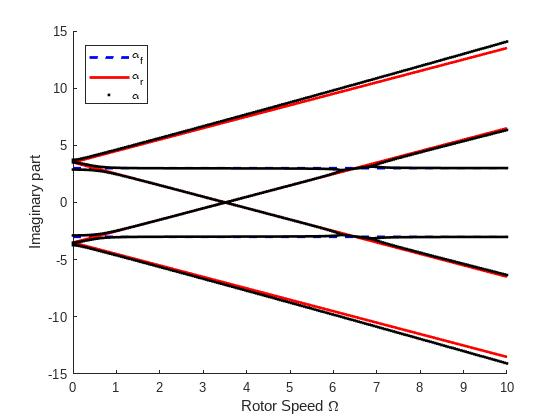
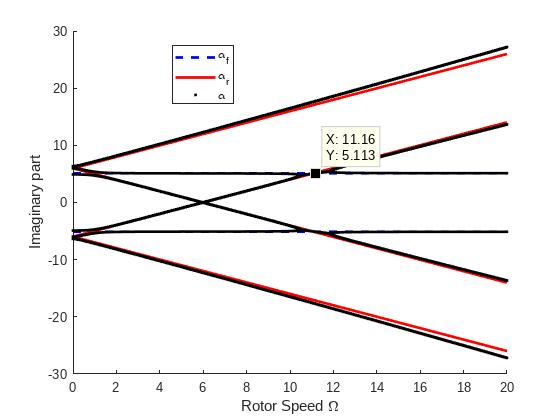
Selasa Submit

diff --git a/bab/4-pengujian-analisis.tex b/bab/4-pengujian-analisis.tex
@@ -5,10 +5,7 @@
 
 Pada penelitian ini dilakukan 3 aspek pengerjaan dalam menjawab tujuannya, diantaranya adalah data eksperimen yang telah didapatkan dari PTDI. Kemudian validasi matematis menggunakan landasan teori yang telah disesuaikan dengan kondisi pengerjaan penelitian ini, yaitu \textit{ground resonance} helikopter. Kemudian yang terakhir adalah simulasi untuk mendukung hasil data pengukuran dan perhitungan. 
 
-\section{Hasil Data Pengukuran dan Perhitungan}
-\label{sec:hasilpengukuran}
-
-\subsection{Hasil pengukuran getaran pada FTIS}
+\section{Hasil pengukuran getaran pada FTIS}
 
 Hasil pengukuran data \textit{ground test} dibagi menjadi 2 bagian, seperti yang telah dijelaskan pada bagian metodologi penelitian, bahwa data yang didapatkan merupakan data pengukuran getaran pada FTIS untuk mencari \textit{damping ratio} dan pengukuran data getaran pada akseleromter untuk mendapatkan respon frekuensi dominan oleh helikopter akibat \textit{input} yang diberikan. Berikut ini merupakan grafik yang didapatkan dari masing-masing kondisi yang mengacu pada tabel \ref{tb:variasilanding}.
 
@@ -208,20 +205,20 @@ Gambar dari \ref{fig:plot_ROR} hingga \ref{fig:plot_Acc_Y} merupakan plot nilai 
 
 Saat pengujian, helikopter memberikan respon getaran yang normal, namun kuantifikasi terhadap kondisi tersebut belum menjelaskan seberapa aman helikopter tersebut dari fenomena \textit{ground resonance}. Perhitungan \textit{damping ratio} setidaknya menjelaskan respon yang dimiliki oleh helikopter terhadap orientasi gerakannya di tanah. Meskipun secara visual, respon helikopter secara jelas tidak menunjukkan adanya potensi terjadinya \textit{ground resonance}. Sehingga identifikasi akan dilanjutkan melalui data hasil pengukuran menggunakan akselerometer.
 
-\subsection{Hasil pengukuran getaran pada Akselerometer}
+\section{Hasil pengukuran getaran pada Akselerometer}
 
 Data yang didapatkan dari hasil sensor akselerometer ditunjukkan pada gambar dibawah ini:
 
-\begin{figure}[H]
+\begin{figure}[h]
 	\centering
-	\fbox{\includegraphics[width=0.8\linewidth]{gambar/raw_config2_ch1.png}}
+	\fbox{\includegraphics[width=0.7\linewidth]{gambar/raw_config2_ch1.png}}
 	\caption{Grafik data pengukuran pada variasi FILO kondisi-2 \textit{channel} 1.}
 	\label{fig:raw_config2_FILO}
 \end{figure}
 
 \begin{figure}[H]
 	\centering
-	\fbox{\includegraphics[width=0.8\linewidth]{gambar/fft_config2_ch1.png}}
+	\fbox{\includegraphics[width=0.7\linewidth]{gambar/fft_config2_ch1.png}}
 	\caption{Grafik data hasil FFT pada variasi FILO kondisi-2.}
 	\label{fig:fft_config2_FILO}
 \end{figure}
@@ -230,7 +227,7 @@ Grafik pada gambar \ref{fig:raw_config2_FILO} merupakan grafik data hasil penguk
 
 \begin{figure}[h]
 	\centering
-	\fbox{\includegraphics[width=0.8\linewidth]{gambar/Oscillation_cycle_limit.jpg}}
+	\fbox{\includegraphics[width=0.55\linewidth]{gambar/Oscillation_cycle_limit.jpg}}
 	\caption{Grafik batas siklus osilasi dari acuan MIL-STD-810H-Method-514.8 (vibrasi).}
 	\label{fig:batas_siklus}
 \end{figure}
@@ -257,16 +254,101 @@ Untuk mendapatkan grafik pada gambar \ref{fig:batas_siklus} diperlukan informasi
 
 \begin{figure}[h]
 	\centering
-	\fbox{\includegraphics[width=0.8\linewidth]{gambar/Helicopter_response_GVT_image/Config_11/5_Config_11_FLLO.jpg}}
+	\fbox{\includegraphics[width=0.55\linewidth]{gambar/Helicopter_response_GVT_image/Config_11/5_Config_11_FLLO.jpg}}
 	\caption{Hasil pengukuran respon frekuensi kondisi-11 pada variasi FLLO pada detik 1800-1850.}
 	\label{fig:11_FLLO}
 \end{figure}
 
-Grafik pada gambar \ref{fig:11_FLLO} merupakan contoh grafik dengan nilai respon terbesar dibandingkan respon-respon dari kondisi dan variasi lainnya, yaitu dengan amplitudo sebesar 0.143 g-peak pada frekuensi 23.74Hz. Nilai respon yang diberikan pada grafik tersebut merupakan nilai yang didapatkan dari \textit{channel} 1 hingga 6. Data respon yang diberi tanda 'x' merupakan nilai tertinggi dari grafik FFT yang telah didapatkan.
+Grafik pada gambar \ref{fig:11_FLLO} merupakan contoh grafik dengan nilai respon terbesar dibandingkan respon-respon dari kondisi dan variasi lainnya, yaitu dengan amplitudo sebesar 0.143 g-peak pada frekuensi 23.74Hz. Nilai respon yang diberikan pada grafik tersebut merupakan nilai yang didapatkan dari \textit{channel} 1 hingga 6. Data respon yang diberi tanda 'x' merupakan nilai tertinggi dari grafik FFT yang telah didapatkan. Selanjutnya akan coba diidentifikasi bagaimana respon helikopter pada masing-masing \textit{channel} dari kondisi 1 hingga 11.
 
-\subsection{Hasil Perhitungan}
+\begin{figure}[h]
+	\centering
+	\fbox{\includegraphics[width=0.55\linewidth]{gambar/Plot_per_channel_FTIS/all_channel_1.jpg}}
+	\caption{Hasil pengukuran respon frekuensi pada \textit{channel} 1 untuk semua kondisi.}
+	\label{fig:channel_1}
+\end{figure}
 
-Berdasarkan matriks yang telah didapatkan pada persamaan \ref{eq:linearisasi} kemudian disubtitusi pada persamaan \ref{eq:EOM} dan diubah menjadi bentuk \textit{state-space} pada persamaan \ref{eq:state-space_simplified}, akan dihitung nilai eigen dari matriks A berikut.
+\begin{figure}[h]
+	\centering
+	\fbox{\includegraphics[width=0.55\linewidth]{gambar/Plot_per_channel_FTIS/all_channel_2.jpg}}
+	\caption{Hasil pengukuran respon frekuensi pada \textit{channel} 2 untuk semua kondisi.}
+	\label{fig:channel_2}
+\end{figure}
+
+\begin{figure}[h]
+	\centering
+	\fbox{\includegraphics[width=0.55\linewidth]{gambar/Plot_per_channel_FTIS/all_channel_3.jpg}}
+	\caption{Hasil pengukuran respon frekuensi pada \textit{channel} 3 untuk semua kondisi.}
+	\label{fig:channel_3}
+\end{figure}
+
+\begin{figure}[H]
+	\centering
+	\fbox{\includegraphics[width=0.55\linewidth]{gambar/Plot_per_channel_FTIS/all_channel_4.jpg}}
+	\caption{Hasil pengukuran respon frekuensi pada \textit{channel} 4 untuk semua kondisi.}
+	\label{fig:channel_4}
+\end{figure}
+
+\begin{figure}[H]
+	\centering
+	\fbox{\includegraphics[width=0.55\linewidth]{gambar/Plot_per_channel_FTIS/all_channel_5.jpg}}
+	\caption{Hasil pengukuran respon frekuensi pada \textit{channel} 5 untuk semua kondisi.}
+	\label{fig:channel_5}
+\end{figure}
+
+\begin{figure}[H]
+	\centering
+	\fbox{\includegraphics[width=0.55\linewidth]{gambar/Plot_per_channel_FTIS/all_channel_6.jpg}}
+	\caption{Hasil pengukuran respon frekuensi pada \textit{channel} 6 untuk semua kondisi.}
+	\label{fig:channel_6}
+\end{figure}
+
+\begin{table}[H]
+	\centering
+	\caption{Kuantifikasi banyaknya respon oleh Helikopter pada batas siklus osilasi.}
+	\label{tb:identifikasi_pada_batas_siklus}
+	\resizebox{\textwidth}{!}{%
+		\begin{tabular}{|c|c|c|c|}
+			\hline
+			Batas siklus & Banyaknya respon (n) & Banyaknya respon (\%) & Total Respon dari (0-80Hz) \\ \hline
+			$f_1$ & 0 & 0 & \multirow{4}{*}{2412} \\ \cline{1-3}
+			$f_2$ & 383 & 15.87893864 &  \\ \cline{1-3}
+			$f_3$ & 103 & 4.270315091 &  \\ \cline{1-3}
+			$f_4$ & 15 & 0.621890547 &  \\ \hline
+		\end{tabular}%
+	}
+\end{table}
+
+Grafik pada gambar \ref{fig:channel_1} hingga \ref{fig:channel_6} memberikan informasi terkait respon helikopter dari \textit{channel} 1 hingga 6 untuk semua kondisi. Respon helikopter bertanda 'x' dan diberi warna hijau. Respon tersebut lebih banyak terdapat pada sekitar batas siklus di $f_1$ dan $f_2$. Akan tetapi bila ditinjau secara matematis, tidak terdapat respon helikopter yang berada pada batas siklus $f_1$ hal ini dibuktikan dengan identifikasi nilai kuantitatif respon pada interval $f_1$ seperti yang terdapat pada tabel \ref{tb:identifikasi_pada_batas_siklus}. Dari tabel tersebut, terdapat sebanyak 15.87$\%$ respon helikopter pada batas siklus $f_2$, 4.27$\%$ pada batas siklus $f_3$ dan 0.621$\%$ pada batas siklus $f_4$. Nilai terdekat pada batas siklus $f_1$ berada pada nilai respon frekuensi 5.9166 dan berada pada g-peak 0.0067. Informasi tersebut didapatkan dari data excel yang berjumlah 4539 respon data oleh helikopter seperti yang dapat dilihat pada potongan tabel \ref{tb:list_all_data_sort}. Data yang ditampilkan dan dimasukkan pada batas siklus osilasi hanya merupakan data yang berada pada interval 0 hingga 80Hz. Meskipun pada dasarnya apabila mengacu pada nilai puncak FFT seperti pada gambar \ref{fig:fft_config2_FILO}, didapatkan nilai puncak tertinggi pada rentang frekuensi 700-800Hz.
+
+Identifikasi pada respon frekuensi yang berada di batas siklus osilasi $f_1$ memiliki korelasi yang sangat berkaitan erat dengan fenomena \textit{ground resonance}. Batas siklus osilasi $f_1$ merupakan batas siklus osilasi paling rendah yang berada pada rentang \textit{low frequency}. Berdasarkan penelitian yang telah dikerjakan oleh \cite{Eckert2007AnalyticalAA}, terdapat satu frekuensi pada \textit{lag mode} berupa \textit{low frequency} (frekuensi rendah) yang dapat menyebabkan terjadinya \textit{ground resonance}. Pada rentang frekuensi rendah ini akan dilakukan identifikasi secara matematis sebagai bentuk validasi dari pengukuran data yang telah dilakukan.
+
+\begin{table}[h]
+	\centering
+	\caption{Tabel respon helikopter pada semua channel dan semua kondisi (potongan).}
+	\label{tb:list_all_data_sort}
+		\begin{tabular}{|c|c|c|c|}
+			\hline
+			No & Frekuensi & g-Peak & Channel \\ \hline
+			1 & 1.930925 & 0.00063 & ch1 \\ \hline
+			2 & 4.869472 & 0.000965 & ch1 \\ \hline
+			3 & 7.466667 & 0.000198 & ch1 \\ \hline
+			4 & 10.461628 & 0.000213 & ch1 \\ \hline
+			5 & 13.358655 & 0.000102 & ch1 \\ \hline
+			... & ... & ... & ... \\ \hline
+			671 & 5.916678 & 0.006792 & ch2 \\ \hline
+			... & ... & ... & ... \\ \hline
+			4535 & 1.7132 & 0.01659 & ch6 \\ \hline
+			4536 & 1.7683 & 0.01962 & ch6 \\ \hline
+			4537 & 1.82582 & 0.02096 & ch6 \\ \hline
+			4538 & 23.7427 & 0.02117 & ch6 \\ \hline
+			4539 & 746.644 & 0.01644 & ch6 \\ \hline
+		\end{tabular}%
+\end{table}
+
+\section{Hasil Perhitungan Matematis}
+
+Perhitungan matematis yang dilakukan berdasarkan pada apa yang telah dikerjakan pada \cite{BERGEOT201672}, frekuensi \textit{ground resonance} akan terjadi pada \textit{regressive rotor mode}, yaitu mode yang terjadi pada bilah rotor. Dalam perhitungan tersebut, digunakan matriks dari persamaan \ref{eq:state-space}. Berdasarkan matriks yang telah didapatkan pada persamaan \ref{eq:linearisasi} kemudian disubtitusi pada persamaan \ref{eq:EOM} dan diubah menjadi bentuk \textit{state-space} pada persamaan \ref{eq:state-space_simplified}, maka akan dihitung nilai eigen dari matriks A berikut.
 
 \begin{equation}
 	\mathbf{A}=\begin{bmatrix}
@@ -275,7 +357,7 @@ Berdasarkan matriks yang telah didapatkan pada persamaan \ref{eq:linearisasi} ke
 	\end{bmatrix}
 \end{equation}
 
-Akan tetapi, informasi material helikopter belum diketahui, sehingga dilakukan pendekatan untuk nilai propertis persamaan diatas, dimana untuk masing-masing propertis adalah sebagai berikut:
+Nilai eigen pada matriks A merupakan solusi yang menampilkan besarnya frekuensi pada \textit{fuselage} dan \textit{rotor}. Informasi material pada helikopter akan disubtitusi pada matriks tersebut. Akan tetapi dalam penelitian ini, didapatkan keterbatasan pada spesifikasi propertis helikopter. Sehingga dilakukan pendekatan untuk nilai propertis persamaan diatas menggunakan data kecepatan bilah rotor helikopter, dimana untuk masing-masing propertis adalah sebagai berikut:
 
 \begin{table}[h]
 	\centering
@@ -294,43 +376,97 @@ Akan tetapi, informasi material helikopter belum diketahui, sehingga dilakukan p
 	\end{tabular}
 \end{table}
 
-Nilai eigen dapat diperhitungkan dari matriks $\mathbf{A}$. Dari hasil tersebut, didapatkan 6 solusi nilai eigen saat kondisi natural, yaitu saat $\tilde{S}_c = \tilde{S}_d = 0$ (tidak saling berhubungan / \textit{uncoupled}). Sehingga dari kondisi tersebut didapatkan grafik bagian imajiner terhadap kecepatan rotor $\Omega$ dan didapatkan pula bagian rill terhadap kecepatan rotor $\Omega$.
+Nilai eigen dapat diperhitungkan dari matriks $\mathbf{A}$. Dari hasil tersebut, didapatkan 6 solusi nilai eigen saat kondisi tanpa sistem kopling (interkoneksi antara \textit{input} dan \textit{output}), yaitu saat $\tilde{S}_c = \tilde{S}_d = 0$ (tidak saling berhubungan / \textit{uncoupled}). Sehingga dari kondisi tersebut didapatkan grafik bagian imajiner terhadap kecepatan rotor $\Omega$ dan didapatkan pula bagian rill terhadap kecepatan rotor $\Omega$.
 
-\begin{figure}[h]
+\begin{figure}[H]
 	\centering
-	\fbox{\includegraphics[width=0.7\linewidth]{gambar/Imag(uncoupled).jpg}}
+	\fbox{\includegraphics[width=0.65\linewidth]{gambar/imag_(uncoupled).png}}
 	\caption{Plot grafik imajiner terhadap kecepatan rotor $\Omega$ pada kondisi \textit{uncoupled}.}
 	\label{fig:imag(uncoupled)}
 \end{figure}
 
-\begin{figure}[H]
-	\centering
-	\fbox{\includegraphics[width=0.7\linewidth]{gambar/Real(uncoupled).jpg}}
-	\caption{Plot grafik real terhadap kecepatan rotor $\Omega$ pada kondisi \textit{uncoupled}.}
-	\label{fig:real(uncoupled)}
-\end{figure}
-
-Kemudian, berikut ini adalah grafik plot untuk bagian imajiner dan riil saat sistem \textit{coupled}.
+Pada grafik \ref{fig:imag(uncoupled)} garis putus-putus berwarna biru merupakan nilai eigen untuk \textit{fuselage} helikopter, sehingga pada bagian imajiner tersebut memberikan besarnya mode dari \textit{fuselage}. Sedangkan garis yang berwarna merah merupakan nilai eigen dari mode rotor helikopter, dimana pada grafik tersebut merepresentasikan \textit{regressive rotor mode} dan \textit{progressive rotor mode}. 
 
 \begin{figure}[H]
 	\centering
-	\fbox{\includegraphics[width=0.7\linewidth]{gambar/Imag(coupled).jpg}}
+	\fbox{\includegraphics[width=0.65\linewidth]{gambar/Imag(coupled).jpg}}
 	\caption{Plot grafik imajiner terhadap kecepatan rotor $\Omega$ pada kondisi \textit{coupled}.}
 	\label{fig:imag(coupled)}
 \end{figure}
 
 \begin{figure}[h]
 	\centering
-	\fbox{\includegraphics[width=0.7\linewidth]{gambar/Real(coupled).jpg}}
+	\fbox{\includegraphics[width=0.65\linewidth]{gambar/Real(coupled).jpg}}
 	\caption{Plot grafik real terhadap kecepatan rotor $\Omega$ pada kondisi \textit{coupled}.}
 	\label{fig:real(coupled)}
 \end{figure}
 
-$\alpha_f$ merupakan nilai eigen dari \textit{fuselage} (berwarna biru dengan garis putus-putus) dan $\alpha_r$ merupakan nilai eigen dari rotor helikopter (berwarna merah). Sedangkan $\alpha$ merupakan nilai eigen dari sistem \textit{coupled}.
+Gambar pada grafik \ref{fig:imag(coupled)} merupakan grafik saat sistem helikopter yang memiliki interkoneksi pada bagian \textit{input} dan \textit{output} nya (\textit{coupled}). $\alpha$ merupakan nilai eigen dari sistem \textit{coupled}. Kondisi saat nilai eigen \textit{coupled} berpotongan dengan garis dari nilai eigennya pada nilai eigen di mode \textit{fuselage} nya akan mengakibatkan terjadinya \textit{ground resonance}. Gambar pada grafik \ref{fig:real(coupled)} memberikan informasi, bahwa pada bagian riil dari nilai eigen sistem \textit{coupled} berada pada nilai positif. Dalam sistem kestabilan, kondisi ini merupakan kondisi yang tidak stabil, sehingga pada kondisi tersebut helikopter akan mengalami getaran yang dapat menyebabkan \textit{ground resonance}. 
 
-\section{Pembahasan}
-\label{sec:pembahasan}
+\begin{figure}[H]
+	\centering
+	\fbox{\includegraphics[width=0.65\linewidth]{gambar/find_range_10-11,89.png}}
+	\caption{Plot grafik real terhadap kecepatan rotor $\Omega$ pada kondisi \textit{coupled}.}
+	\label{fig:resonance_range}
+\end{figure}
 
+Gambar \ref{fig:resonance_range} merupakan langkah yang dilakukan untuk mencari respon helikopter yang terdapat pada interval 10.5-11.89Hz (asumsi interval nilai yang berada disekitar frekuensi 11.16). Data respon helikopter berada pada A2 hingga A4540. Langkah ini dilakukan untuk mengonfirmasi apakah dari perhitungan matematis, helikopter memiliki potensi mengalami fenomena \textit{ground resonance} atau tidak. Namun dari hasil tersebut dapat diperhatikan bahwa tidak terdapat respon frekuensi helikopter yang berada pada interval tersebut. Sehingga, secara matematis helikopter juga tidak memiliki potensi terjadinya \textit{ground resonance}.
 
+\section{Potensi \textit{Ground Resonance} pada bentuk Modifikasi Penambahan Massa}
 
-Identifikasi 
+Jika terus dilakukan modifikasi pada helikopter dengan variasi penambahan massa, atau dengan kata lain terjadi perubahan massa pada helikopter. Maka selanjutnya akan dilakukan proses perhitungan untuk memprediksi potensi tersebut terhadap helikopter hasil modifikasi. Asumsikan bahwa pada $m_y$ terdapat penambahan massa baru sebesar $m_m$. Sehingga pada persamaan yang mengandung $m_y$ pada matriks A \ref{eq:state-space} akan menjadi $m'_y$. dengan:
+
+\begin{equation}
+	\label{eq:modified}
+	m'_y=m_y+m_m
+\end{equation}
+
+Sehingga akan dilakukan perhitungan, saat $m_m = 0$ hingga penambahan sampai pada $m_m = 300$ yang menandakan bahwa perubahan pada massanya akan bertambah sebesar 300kg. Selanjutnya akan coba dilihat melalui grafik seperti pada gambar grafik \ref{fig:imag(coupled)} dan \ref{fig:real(coupled)}. Maka akan didapatkan grafik berikut:
+
+\begin{figure}[H]
+	\centering
+	\fbox{\includegraphics[width=0.65\linewidth]{gambar/imag(modified)_1.jpg}}
+	\caption{Plot grafik imajiner terhadap kecepatan rotor $\Omega$ pada kondisi \textit{coupled} sebelum (hitam) dan setelah penambahan massa 300kg (hijau).}
+	\label{fig:imag(modified)_1}
+\end{figure}
+
+\begin{figure}[H]
+	\centering
+	\fbox{\includegraphics[width=0.65\linewidth]{gambar/real(modified)_1.jpg}}
+	\caption{Plot grafik riil terhadap kecepatan rotor $\Omega$ pada kondisi \textit{coupled} sebelum (hitam) dan setelah penambahan massa 300kg (hijau).}
+	\label{fig:real(modified)_1}
+\end{figure}
+
+Dari kedua grafik diatas, tidak terdapat perbedaan pada bagian imajiner dan riilnya terhadap sebelum dan sesudah penambahan massa sebesar 300kg. Oleh karena itu selanjutnya akan dicoba penambahan yang lebih berat, yaitu sebesar 1000kg. Sehingga akan didapatkan grafik sebagaimana berikut ini:
+
+\begin{figure}[H]
+	\centering
+	\fbox{\includegraphics[width=0.65\linewidth]{gambar/imag(modified)_2.jpg}}
+	\caption{Plot grafik imajiner terhadap kecepatan rotor $\Omega$ pada kondisi \textit{coupled} sebelum (hitam) dan setelah penambahan massa 1000kg (hijau).}
+	\label{fig:imag(modified)_2}
+\end{figure}
+
+\begin{figure}[H]
+	\centering
+	\fbox{\includegraphics[width=0.65\linewidth]{gambar/real(modified)_2.jpg}}
+	\caption{Plot grafik riil terhadap kecepatan rotor $\Omega$ pada kondisi \textit{coupled} sebelum (hitam) dan setelah penambahan massa 1000kg (hijau).}
+	\label{fig:real(modified)_2}
+\end{figure}
+
+Pada grafik diatas, masih tidak terdapat perbedaan bentuk grafik antara sebelum dan sesudah penambahan massa. Kemudian selanjutnya akan dilakukan penambahan massa pada modifikasi sebesar 5000 kg. 
+
+\begin{figure}[H]
+	\centering
+	\fbox{\includegraphics[width=0.65\linewidth]{gambar/imag(modified)_3.jpg}}
+	\caption{Plot grafik imajiner terhadap kecepatan rotor $\Omega$ pada kondisi \textit{coupled} sebelum (hitam) dan setelah penambahan massa 2000kg (hijau).}
+	\label{fig:imag(modified)_3}
+\end{figure}
+
+\begin{figure}[H]
+	\centering
+	\fbox{\includegraphics[width=0.65\linewidth]{gambar/real(modified)_3.jpg}}
+	\caption{Plot grafik riil terhadap kecepatan rotor $\Omega$ pada kondisi \textit{coupled} sebelum (hitam) dan setelah penambahan massa 2000kg (hijau).}
+	\label{fig:real(modified)_3}
+\end{figure}
+
+Dari grafik \ref{fig:imag(modified)_3} dan \ref{fig:real(modified)_3} tidak menunjukkan adanya perbedaan yang signifikan sebagai fungsi pada rotor. Kecuali hanya penurunan frekuensi terjadinya fenomena \textit{ground resonance}, yang semula dari 11.16Hz menjadi 11.14Hz. Penambahan ini merupakan penambahan massa yang cukup besar. Pada tabel \ref{tb:propertis} diketahui massa $m_y$ adalah 4500kg, maka penambahan sebesar 2000kg hampir setengah dari massa awal. Dari penambahan tersebut, hanya terjadi penurunan frekuensi \textit{ground resonance} sebesar 0.02Hz. Sehingga dalam hal ini, penambahan massa atau modifikasi pada massa untuk rentang 0 hingga 2000kg pada helikopter maksimal hanya mengalami penurunan frekuensi \textit{ground resonance} sebesar 0.02Hz.

diff --git a/bab/1-pendahuluan.tex b/bab/1-pendahuluan.tex
@@ -24,9 +24,9 @@ Dari permasalahan yang telah disebutkan pada latar belakang, berikut ini merupak
 	
 	\item Apakah potensi fenomena \textit{ground resonance} terjadi pada modifikasi helikopter AS 565 MBe Panther melalui pengujian di tanah (\textit{ground test})?
 	
-	\item Bagaimana respon frekuensi helikopter AS 565 MBe Panther terhadap pengujian yang dilakukan di tanah terhadap fenomena \textit{ground resonance}?
+	\item Bagaimana respon frekuensi modifikasi helikopter AS 565 MBe Panther terhadap pengujian dan perhitungan matematis terhadap fenomena \textit{ground resonance}?
 	
-	\item Bagaimana batas siklus osilasi yang dimiliki helikopter AS 565 MBe Panther pada \textit{ground resonance} terhadap modifikasi yang dilakukan PTDI?
+	\item batas siklus osilasi modifikasi helikopter AS 565 MBe Panther hasil modifikasi yang dilakukan oleh PTDI terhadap fenomena \textit{ground resonance} menggunakan pendekatan matematis?
 	
 	\item Bagaimana pemodelan matematis dan simulasi helikopter AS 565 MBe Panther terhadap fenomena \textit{ground resonance}? 
 \end{enumerate}
@@ -38,9 +38,9 @@ Dari permasalahan yang telah disebutkan pada latar belakang, berikut ini merupak
 
 	\item Mengetahui potensi terjadinya \textit{ground resonance} pada modifikasi helikopter AS 565 MBe Panther dari pengujian yang dilakukan di tanah (\textit{ground test}).
 	
-	\item Mengetahui dan menganalisis respon frekuensi modifikasi helikopter AS 565 MBe Panther terhadap pengujian yang diakukan di tanah terhadap fenomena \textit{ground resonance}.
+	\item Mengetahui dan menganalisis respon frekuensi modifikasi helikopter AS 565 MBe Panther terhadap pengujian dan perhitungan matematis terhadap fenomena \textit{ground resonance}.
 	
-	\item Mendapatkan batas siklus osilasi modifikasi helikopter AS 565 MBe Panther hasil modifikasi yang dilakukan oleh PTDI terhadap fenomena \textit{ground resonance}.
+	\item Mendapatkan batas siklus osilasi modifikasi helikopter AS 565 MBe Panther hasil modifikasi yang dilakukan oleh PTDI terhadap fenomena \textit{ground resonance} menggunakan pendekatan matematis.
 	
 	\item Mengetahui pemodelan matematis dan simulasi dari helikopter modifikasi AS 565 MBe Panther terhadap fenomena \textit{ground resonance}.
 \end{enumerate}
@@ -55,6 +55,8 @@ Batasan masalah dari tugas akhir ini adalah sebagai berikut:
   \item Lokasi tempat pengerjaan tugas akhir dilakukan di PT. Dirgantara Indonesia dan di Laboratorium Vibrasi dan Akustik Teknik Fisika ITS.
 
   \item Objek yang digunakan pada penelitian ini adalah helikopter AS 565 MBe Panther yang telah dimodifikasi oleh PT. Dirgantara Indonesia.
+  
+  \item Material pada helikopter AS 565 MBe Panther menggunakan pendekatan pada sumber yang ada saja tanpa ada informasi langsung dari PTDI.
 
   \item Pengambilan data pengukuran helikopter dilakukan saat kondisi cerah pagi hari dengan batas waktu dari pukul 07.00 hingga 11.00 WIB.
   

diff --git a/bab/5-penutup.tex b/bab/5-penutup.tex
@@ -10,11 +10,13 @@ Berikut merupakan hasil yang telah didapatkan:
 
 \begin{enumerate}[nolistsep]
 
-  \item Pembuatan \lipsum[2][1-3]
+  \item Berdasarkan pengambilan data di tanah saat pengujian pada FTIS dan menggunakan akselerometer dengan variasi kondisi tekanan pada ban serta oleo pesawat, kemudian dengan variasi \textit{input} pada helikopter. Didapatkan bahwa helikopter tidak berpotensi mengalami fenomena \textit{ground resonance} yang dibuktikan dengan grafik pada respon \textit{rate of roll, rate of pitch, rate of yaw} dan percepatan arah sumbu-Y. Selanjutnya berdasarkan data menggunakan akselerometer, tidak ditemukan adanya respon yang berada dalam batas siklus osilasi dengan amplitudo yang tinggi. Bahkan dari semua respon yang dimiliki oleh helikopter, tidak terdapat amplitudo pada frekuensi tertentu yang mencapai setengah dari tinggi puncak batas siklus osilasi.
 
-  \item \lipsum[2][4-6]
+  \item Helikopter memiliki respon \textit{damping ratio} rata-rata terbesar pada \textit{rate of roll} sebesar 0.054 dan pada orientasi sumbu-Y sebesar 0.050. Hal ini memberikan informasi bahwa helikopter memiliki kecenderungan untuk goncangan kanan dan kiri pada tumpuan ban dan oleonya. Respon frekuensi helikopter tidak terdapat pada batas siklus osilasi $f_1$. Pada hasil perhitungan juga tidak ditemukan adanya respon frekunsi pada rentang 10.5-11.89Hz, yang mana pada perhitungan matematis, rentang tersebut merupakan rentang terjadinya frekunsi \textit{ground resonance}.
 
-  \item \lipsum[2][7-10]
+  \item Berdasarkan standar MIL-STD-810H-Method-514.8 dan perhitungan matematis, didapatkan batas siklus osilasi pada helikopter berada pada rentang \textit{rmp} natural minimum (5.09Hz) hingga maksimum (6.08Hz) dengan batas puncak pada nilai 0.1464-0.1515 g-peak. Pada rentang tersebut tidak didapatkan satupun respon frekunsi pada helikopter. Namun pada rentang yang lain, yaitu pada rentang 23.68-24.32Hz didapatkan sebanyak 15.87$\%$ dari persentase respon frekuensi batas siklus. Sedangkan pada batas 47.36-48.64Hz didapatkan sebanyak 4.2$\%$ dan pada batas 71.04-72.96Hz sebanyak 0.62$\%$. Pada perhitungan matematis juga tidak ditemukan respon frekuensi pada rentang 10.5-11.89Hz, bahkan jika telah dilakukan modifikasi massa.
+  
+  \item 
 
 \end{enumerate}
 
